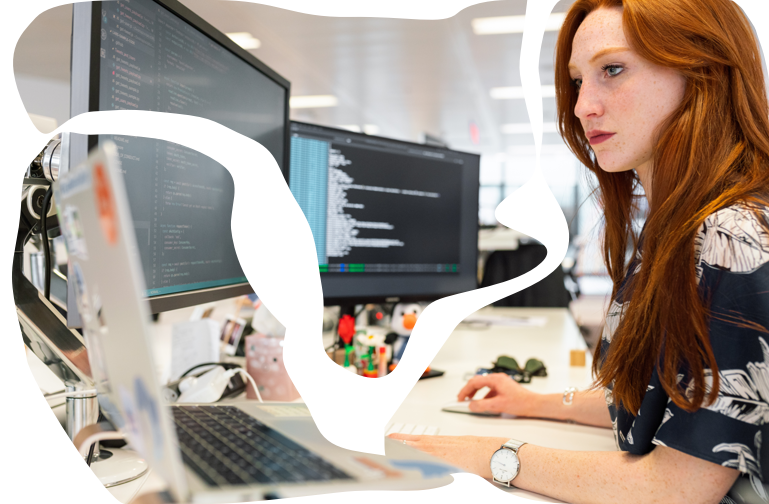
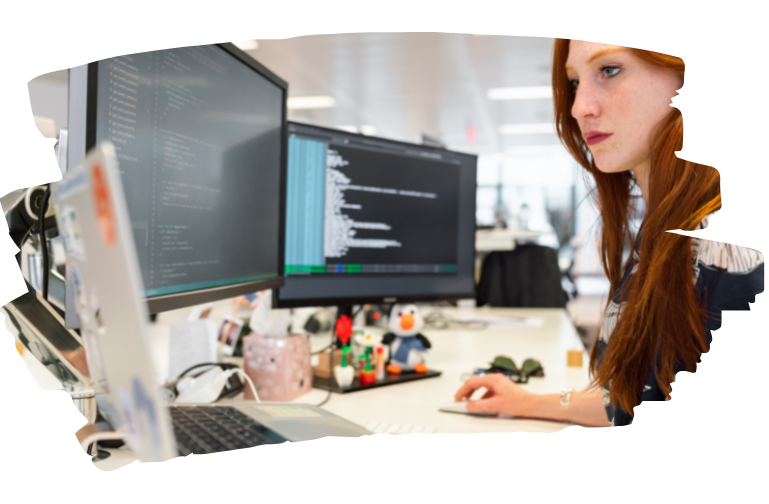
Imagenes 2 added

diff --git a/index.html b/index.html
@@ -111,7 +111,7 @@ https://templatemo.com/tm-562-space-dynamic
     <div class="container">
       <div class="row">
         <div class="col-lg-4">
-          <div class="left-image wow fadeIn" data-wow-duration="1s" data-wow-delay="0.2s">
+          <div class="wow fadeIn" data-wow-duration="1s" data-wow-delay="0.2s">
             <img src="assets/images/about-left-image.png" alt="person graphic">
           </div>
         </div>
